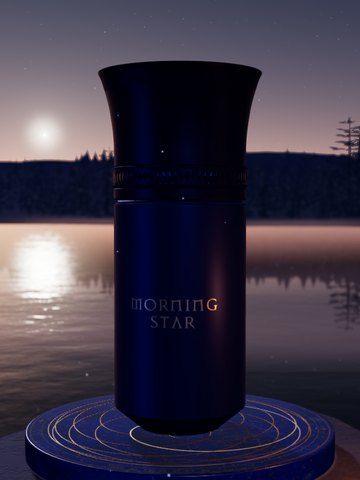
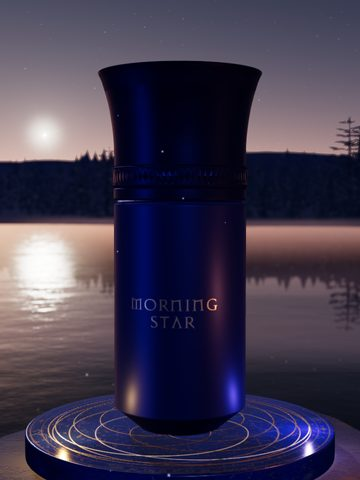
晨曉之星：台座金線的兩道光點變成真的光源，跟著光點在盤面上走、照亮瓶身下半與盤面（鑽到瓶底下時熄掉，兩道光相遇時變亮）；瓶身提亮（環境光條、顏色、漆面反光），縮圖重拍
Claude-Session: https://claude.ai/code/session_01PqrgZkmayFsytv1H3rdgSD

diff --git a/morning-star-3d.html b/morning-star-3d.html
@@ -838,7 +838,10 @@ const rose=(()=>{ const N=7000, a=.7233, Pv=.61519, Y=8; const pts=[]; let maxR=
   m.customProgramCacheKey=()=>'rose';
   const mesh=new THREE.Mesh(g,m); mesh.receiveShadow=true; pedestal.add(mesh); refl(mesh);
   const tip=new THREE.Vector3(P[best][0],.02,P[best][1]);
-  return { U, L, tip, T0:lens[best]/L };
+  // 依弧長參數（0–1，和 aT 一樣）找出金線上的位置：讓真的光源跟著光點走
+  const posAt=(p,v)=>{ const sL=(((p%1)+1)%1)*L; let lo=0, hi=lens.length-1; while(hi-lo>1){ const m=(lo+hi)>>1; if(lens[m]<=sL) lo=m; else hi=m; }
+    const k=(sL-lens[lo])/Math.max(1e-9,lens[hi]-lens[lo]); return v.set(P[lo][0]+(P[hi][0]-P[lo][0])*k, 0, P[lo][1]+(P[hi][1]-P[lo][1])*k); };
+  return { U, L, tip, T0:lens[best]/L, posAt };
 })();
 
 // 青銅香爐架（thymiaterion）：三隻獅爪腳、細長的柱上一節節線腳與一顆圓球，頂上一只淺碗燃著乳香
@@ -868,6 +871,10 @@ const thym=new THREE.Group(); { const tx=5.6, tz=2.9; thym.position.set(tx, terr
 }
 // 火光：碗口一小簇搖曳的火焰（火炬），暖色的點光源照亮瓶身右前方
 const fireLight=new THREE.PointLight(C('#ff9450'), 14, 26, 1.7); fireLight.position.set(0,5.6,0); thym.add(fireLight);
+// 金線裡的兩道光也是真的光源：跟著光點在盤面上走，照亮瓶身下半、盤面與金線（鑽到瓶底下時熄掉）
+const PULSE = { I:[8,5.2], y:.62, foot:1.9 };                                                // 金光打在靛藍上會被吃掉一些，所以給亮一點
+// 衰減放緩一點（1.6），光才爬得上瓶身
+const pulseLights=['#ffbe48','#a596ff'].map(c=>{ const l=new THREE.PointLight(C(c), 0, 12, 1.6); l.layers.enable(1); l.layers.enable(REFL_LAYER); pedestal.add(l); return l; });
 const flames=(()=>{ const m=new THREE.ShaderMaterial({ transparent:true, depthWrite:false, blending:THREE.AdditiveBlending, side:THREE.DoubleSide, fog:false, uniforms:{ uT:clockU },
     vertexShader:`varying vec2 vUv; void main(){ vUv=uv; gl_Position=projectionMatrix*modelViewMatrix*vec4(position,1.); }`,
     fragmentShader:`uniform float uT; varying vec2 vUv;
@@ -910,22 +917,29 @@ const fx=(()=>{
   const SAT_P=95, t0=13;                                                     // 兩道光第一次在正面相遇：開場後約 12 秒
   const tmp=new THREE.Vector3(), flash=new THREE.Sprite(new THREE.SpriteMaterial({ map:canvasTex(64,64,(c,w)=>{ const gr=c.createRadialGradient(w/2,w/2,0,w/2,w/2,w/2); gr.addColorStop(0,'rgba(255,250,235,1)'); gr.addColorStop(.3,'rgba(255,230,190,.35)'); gr.addColorStop(1,'rgba(255,230,190,0)'); c.fillStyle=gr; c.fillRect(0,0,w,w); }), transparent:true, depthWrite:false, blending:THREE.AdditiveBlending, opacity:0 }));
   flash.position.copy(rose.tip); flash.scale.setScalar(1.6); pedestal.add(flash);
-  const update=(t,dt)=>{
-    smoke.forEach(o=>{ const k=(t*.09+o.ph)%1; o.s.position.set(Math.sin(t*.4+o.ph*9)*.35*k + k*k*1.6, 5.3+k*6.5, Math.cos(t*.33+o.ph*7)*.3*k - k*.6); o.s.scale.setScalar(.3+k*1.9); o.s.material.opacity=Math.sin(Math.min(1,k*1.15)*Math.PI)*.085;
-      o.s.material.color.setRGB(.85+.15*(1-k), .82+.05*(1-k), .86-.12*(1-k)); });
-    const fl=.8+.2*Math.sin(t*9.1)*Math.sin(t*5.3+1)+.08*Math.sin(t*23.); fireLight.intensity=14*fl; flames.scale.set(1,.9+.2*fl,1);
-    // 金線裡的兩道光
+  // 金線裡的兩道光
+  const pulses=(t)=>{
     const P=48, tau=(t+t0)/P; const U=rose.U; U.uTA.value=((rose.T0+.5+tau)%1+1)%1; U.uTB.value=((rose.T0+.5-tau)%1+1)%1;
     const dm=Math.abs(((U.uTA.value-U.uTB.value)%1+1.5)%1-.5); const meetFront=Math.abs(((U.uTA.value-rose.T0)%1+1.5)%1-.5)<.25;
     const fk=Math.exp(-Math.pow(dm/.012,2)); U.uFlash.value=meetFront?fk:0; flash.material.opacity=meetFront?fk*.9:0;
     if(world.venus) world.venus.material.uniforms.uPulse.value=meetFront?0:fk;                 // 背面那次相遇（在瓶子底下，昏星變成晨星）：天上的金星亮一下
+    const boost=1+(meetFront?fk*2.2:0);
+    pulseLights.forEach((l,i)=>{ rose.posAt(i?U.uTB.value:U.uTA.value, l.position); const r=Math.hypot(l.position.x,l.position.z);
+      l.position.y=PULSE.y; l.intensity=PULSE.I[i]*sstep(PULSE.foot-.1,PULSE.foot+.5,r)*boost; });
+  };
+  pulses(0);
+  const update=(t,dt)=>{
+    smoke.forEach(o=>{ const k=(t*.09+o.ph)%1; o.s.position.set(Math.sin(t*.4+o.ph*9)*.35*k + k*k*1.6, 5.3+k*6.5, Math.cos(t*.33+o.ph*7)*.3*k - k*.6); o.s.scale.setScalar(.3+k*1.9); o.s.material.opacity=Math.sin(Math.min(1,k*1.15)*Math.PI)*.085;
+      o.s.material.color.setRGB(.85+.15*(1-k), .82+.05*(1-k), .86-.12*(1-k)); });
+    const fl=.8+.2*Math.sin(t*9.1)*Math.sin(t*5.3+1)+.08*Math.sin(t*23.); fireLight.intensity=14*fl; flames.scale.set(1,.9+.2*fl,1);
+    pulses(t);
     // 流星
     if(metT<0){ metNext-=dt; if(metNext<0) spawn(); } else { metT+=dt/.75; met.material.uniforms.uK.value=Math.min(1.25,metT); if(metT>1.25){ metT=-1; met.visible=false; metNext=18+Math.random()*24; } }
     // 衛星：沿著一道大圓從西北往東南走，靠近曙光時漸漸淡出（進入地影）
     { const k=((t+20)%SAT_P)/SAT_P; const az=250-k*120, alt=9+16*Math.sin(k*Math.PI); tmp.copy(dirAzAlt(az,alt)).multiplyScalar(1300); sat.geometry.attributes.position.setXYZ(0,tmp.x,tmp.y,tmp.z); sat.geometry.attributes.position.needsUpdate=true;
       sat.material.uniforms.uA.value=sstep(0,.06,k)*sstep(.82,.62,k); }
   };
-  return { update, spawn, sat, met };
+  return { update, spawn, sat, met, pulses, pulseLights };
 })();
 // ---------- 燈光：日出前沒有直射的陽光。主光是東邊天際的曙光（偏冷的粉紫、低低地從左後方來，影子很柔），
 // 天光是深藍的夜空；右前方香爐架的火光是唯一的暖色，迎面一道很淡的星光讓香材看得清楚 ----------
@@ -1012,10 +1026,10 @@ const embTex = tex(TEX.emblem, false);
   // 讓霧面漆照出官方照那種直直一道的藍紫高光，夜裡也看得出瓶身的形狀
   const bottleEnv=(()=>{ const sc=new THREE.Scene(); sc.add(new THREE.Mesh(new THREE.SphereGeometry(500,32,16), skyMaterial()));
     const panel=(az,alt,w,h,col,k)=>{ const m=new THREE.Mesh(new THREE.PlaneGeometry(w,h), new THREE.MeshBasicMaterial({ color:C(col).multiplyScalar(k), side:THREE.DoubleSide })); m.position.copy(dirAzAlt(az,alt)).multiplyScalar(60); m.lookAt(0,0,0); sc.add(m); };
-    panel(128,10,12,80,'#8c98ff',1.6); panel(252,8,9,70,'#ffb27a',.8); panel(20,6,46,14,'#ff9c70',.9);
+    panel(128,10,12,80,'#8c98ff',2.0); panel(252,8,9,70,'#ffb27a',1.0); panel(20,6,46,14,'#ff9c70',1.05);
     return pmrem.fromScene(sc,0,.1,1000).texture; })();
-  const bodyMat=satin(new THREE.MeshPhysicalMaterial({ color:C('#232b68'), metalness:.55, roughness:.42, clearcoat:.06, clearcoatRoughness:.55, specularIntensity:.5, envMap:bottleEnv, envMapIntensity:1.1 }),'body');
-  const capMat=satin(new THREE.MeshPhysicalMaterial({ color:C('#1e2250'), metalness:.62, roughness:.38, clearcoat:.06, clearcoatRoughness:.5, specularIntensity:.45, envMap:bottleEnv, envMapIntensity:1.1 }),'cap');
+  const bodyMat=satin(new THREE.MeshPhysicalMaterial({ color:C('#29327a'), metalness:.55, roughness:.42, clearcoat:.22, clearcoatRoughness:.5, specularIntensity:.5, envMap:bottleEnv, envMapIntensity:1.3 }),'body');
+  const capMat=satin(new THREE.MeshPhysicalMaterial({ color:C('#23285e'), metalness:.62, roughness:.38, clearcoat:.06, clearcoatRoughness:.5, specularIntensity:.45, envMap:bottleEnv, envMapIntensity:1.3 }),'cap');
   const body=new THREE.Mesh(bodyG,bodyMat), cap=new THREE.Mesh(capG,capMat);
   [body,cap].forEach(m=>{ m.castShadow=true; m.receiveShadow=true; bottle.add(m); });
   refl(bottle);

diff --git a/src/morning-star-3d.src.html b/src/morning-star-3d.src.html
@@ -838,7 +838,10 @@ const rose=(()=>{ const N=7000, a=.7233, Pv=.61519, Y=8; const pts=[]; let maxR=
   m.customProgramCacheKey=()=>'rose';
   const mesh=new THREE.Mesh(g,m); mesh.receiveShadow=true; pedestal.add(mesh); refl(mesh);
   const tip=new THREE.Vector3(P[best][0],.02,P[best][1]);
-  return { U, L, tip, T0:lens[best]/L };
+  // 依弧長參數（0–1，和 aT 一樣）找出金線上的位置：讓真的光源跟著光點走
+  const posAt=(p,v)=>{ const sL=(((p%1)+1)%1)*L; let lo=0, hi=lens.length-1; while(hi-lo>1){ const m=(lo+hi)>>1; if(lens[m]<=sL) lo=m; else hi=m; }
+    const k=(sL-lens[lo])/Math.max(1e-9,lens[hi]-lens[lo]); return v.set(P[lo][0]+(P[hi][0]-P[lo][0])*k, 0, P[lo][1]+(P[hi][1]-P[lo][1])*k); };
+  return { U, L, tip, T0:lens[best]/L, posAt };
 })();
 
 // 青銅香爐架（thymiaterion）：三隻獅爪腳、細長的柱上一節節線腳與一顆圓球，頂上一只淺碗燃著乳香
@@ -868,6 +871,10 @@ const thym=new THREE.Group(); { const tx=5.6, tz=2.9; thym.position.set(tx, terr
 }
 // 火光：碗口一小簇搖曳的火焰（火炬），暖色的點光源照亮瓶身右前方
 const fireLight=new THREE.PointLight(C('#ff9450'), 14, 26, 1.7); fireLight.position.set(0,5.6,0); thym.add(fireLight);
+// 金線裡的兩道光也是真的光源：跟著光點在盤面上走，照亮瓶身下半、盤面與金線（鑽到瓶底下時熄掉）
+const PULSE = { I:[8,5.2], y:.62, foot:1.9 };                                                // 金光打在靛藍上會被吃掉一些，所以給亮一點
+// 衰減放緩一點（1.6），光才爬得上瓶身
+const pulseLights=['#ffbe48','#a596ff'].map(c=>{ const l=new THREE.PointLight(C(c), 0, 12, 1.6); l.layers.enable(1); l.layers.enable(REFL_LAYER); pedestal.add(l); return l; });
 const flames=(()=>{ const m=new THREE.ShaderMaterial({ transparent:true, depthWrite:false, blending:THREE.AdditiveBlending, side:THREE.DoubleSide, fog:false, uniforms:{ uT:clockU },
     vertexShader:`varying vec2 vUv; void main(){ vUv=uv; gl_Position=projectionMatrix*modelViewMatrix*vec4(position,1.); }`,
     fragmentShader:`uniform float uT; varying vec2 vUv;
@@ -910,22 +917,29 @@ const fx=(()=>{
   const SAT_P=95, t0=13;                                                     // 兩道光第一次在正面相遇：開場後約 12 秒
   const tmp=new THREE.Vector3(), flash=new THREE.Sprite(new THREE.SpriteMaterial({ map:canvasTex(64,64,(c,w)=>{ const gr=c.createRadialGradient(w/2,w/2,0,w/2,w/2,w/2); gr.addColorStop(0,'rgba(255,250,235,1)'); gr.addColorStop(.3,'rgba(255,230,190,.35)'); gr.addColorStop(1,'rgba(255,230,190,0)'); c.fillStyle=gr; c.fillRect(0,0,w,w); }), transparent:true, depthWrite:false, blending:THREE.AdditiveBlending, opacity:0 }));
   flash.position.copy(rose.tip); flash.scale.setScalar(1.6); pedestal.add(flash);
-  const update=(t,dt)=>{
-    smoke.forEach(o=>{ const k=(t*.09+o.ph)%1; o.s.position.set(Math.sin(t*.4+o.ph*9)*.35*k + k*k*1.6, 5.3+k*6.5, Math.cos(t*.33+o.ph*7)*.3*k - k*.6); o.s.scale.setScalar(.3+k*1.9); o.s.material.opacity=Math.sin(Math.min(1,k*1.15)*Math.PI)*.085;
-      o.s.material.color.setRGB(.85+.15*(1-k), .82+.05*(1-k), .86-.12*(1-k)); });
-    const fl=.8+.2*Math.sin(t*9.1)*Math.sin(t*5.3+1)+.08*Math.sin(t*23.); fireLight.intensity=14*fl; flames.scale.set(1,.9+.2*fl,1);
-    // 金線裡的兩道光
+  // 金線裡的兩道光
+  const pulses=(t)=>{
     const P=48, tau=(t+t0)/P; const U=rose.U; U.uTA.value=((rose.T0+.5+tau)%1+1)%1; U.uTB.value=((rose.T0+.5-tau)%1+1)%1;
     const dm=Math.abs(((U.uTA.value-U.uTB.value)%1+1.5)%1-.5); const meetFront=Math.abs(((U.uTA.value-rose.T0)%1+1.5)%1-.5)<.25;
     const fk=Math.exp(-Math.pow(dm/.012,2)); U.uFlash.value=meetFront?fk:0; flash.material.opacity=meetFront?fk*.9:0;
     if(world.venus) world.venus.material.uniforms.uPulse.value=meetFront?0:fk;                 // 背面那次相遇（在瓶子底下，昏星變成晨星）：天上的金星亮一下
+    const boost=1+(meetFront?fk*2.2:0);
+    pulseLights.forEach((l,i)=>{ rose.posAt(i?U.uTB.value:U.uTA.value, l.position); const r=Math.hypot(l.position.x,l.position.z);
+      l.position.y=PULSE.y; l.intensity=PULSE.I[i]*sstep(PULSE.foot-.1,PULSE.foot+.5,r)*boost; });
+  };
+  pulses(0);
+  const update=(t,dt)=>{
+    smoke.forEach(o=>{ const k=(t*.09+o.ph)%1; o.s.position.set(Math.sin(t*.4+o.ph*9)*.35*k + k*k*1.6, 5.3+k*6.5, Math.cos(t*.33+o.ph*7)*.3*k - k*.6); o.s.scale.setScalar(.3+k*1.9); o.s.material.opacity=Math.sin(Math.min(1,k*1.15)*Math.PI)*.085;
+      o.s.material.color.setRGB(.85+.15*(1-k), .82+.05*(1-k), .86-.12*(1-k)); });
+    const fl=.8+.2*Math.sin(t*9.1)*Math.sin(t*5.3+1)+.08*Math.sin(t*23.); fireLight.intensity=14*fl; flames.scale.set(1,.9+.2*fl,1);
+    pulses(t);
     // 流星
     if(metT<0){ metNext-=dt; if(metNext<0) spawn(); } else { metT+=dt/.75; met.material.uniforms.uK.value=Math.min(1.25,metT); if(metT>1.25){ metT=-1; met.visible=false; metNext=18+Math.random()*24; } }
     // 衛星：沿著一道大圓從西北往東南走，靠近曙光時漸漸淡出（進入地影）
     { const k=((t+20)%SAT_P)/SAT_P; const az=250-k*120, alt=9+16*Math.sin(k*Math.PI); tmp.copy(dirAzAlt(az,alt)).multiplyScalar(1300); sat.geometry.attributes.position.setXYZ(0,tmp.x,tmp.y,tmp.z); sat.geometry.attributes.position.needsUpdate=true;
       sat.material.uniforms.uA.value=sstep(0,.06,k)*sstep(.82,.62,k); }
   };
-  return { update, spawn, sat, met };
+  return { update, spawn, sat, met, pulses, pulseLights };
 })();
 // ---------- 燈光：日出前沒有直射的陽光。主光是東邊天際的曙光（偏冷的粉紫、低低地從左後方來，影子很柔），
 // 天光是深藍的夜空；右前方香爐架的火光是唯一的暖色，迎面一道很淡的星光讓香材看得清楚 ----------
@@ -1012,10 +1026,10 @@ const embTex = tex(TEX.emblem, false);
   // 讓霧面漆照出官方照那種直直一道的藍紫高光，夜裡也看得出瓶身的形狀
   const bottleEnv=(()=>{ const sc=new THREE.Scene(); sc.add(new THREE.Mesh(new THREE.SphereGeometry(500,32,16), skyMaterial()));
     const panel=(az,alt,w,h,col,k)=>{ const m=new THREE.Mesh(new THREE.PlaneGeometry(w,h), new THREE.MeshBasicMaterial({ color:C(col).multiplyScalar(k), side:THREE.DoubleSide })); m.position.copy(dirAzAlt(az,alt)).multiplyScalar(60); m.lookAt(0,0,0); sc.add(m); };
-    panel(128,10,12,80,'#8c98ff',1.6); panel(252,8,9,70,'#ffb27a',.8); panel(20,6,46,14,'#ff9c70',.9);
+    panel(128,10,12,80,'#8c98ff',2.0); panel(252,8,9,70,'#ffb27a',1.0); panel(20,6,46,14,'#ff9c70',1.05);
     return pmrem.fromScene(sc,0,.1,1000).texture; })();
-  const bodyMat=satin(new THREE.MeshPhysicalMaterial({ color:C('#232b68'), metalness:.55, roughness:.42, clearcoat:.06, clearcoatRoughness:.55, specularIntensity:.5, envMap:bottleEnv, envMapIntensity:1.1 }),'body');
-  const capMat=satin(new THREE.MeshPhysicalMaterial({ color:C('#1e2250'), metalness:.62, roughness:.38, clearcoat:.06, clearcoatRoughness:.5, specularIntensity:.45, envMap:bottleEnv, envMapIntensity:1.1 }),'cap');
+  const bodyMat=satin(new THREE.MeshPhysicalMaterial({ color:C('#29327a'), metalness:.55, roughness:.42, clearcoat:.22, clearcoatRoughness:.5, specularIntensity:.5, envMap:bottleEnv, envMapIntensity:1.3 }),'body');
+  const capMat=satin(new THREE.MeshPhysicalMaterial({ color:C('#23285e'), metalness:.62, roughness:.38, clearcoat:.06, clearcoatRoughness:.5, specularIntensity:.45, envMap:bottleEnv, envMapIntensity:1.3 }),'cap');
   const body=new THREE.Mesh(bodyG,bodyMat), cap=new THREE.Mesh(capG,capMat);
   [body,cap].forEach(m=>{ m.castShadow=true; m.receiveShadow=true; bottle.add(m); });
   refl(bottle);

diff --git a/CLAUDE.md b/CLAUDE.md
@@ -49,6 +49,7 @@
 - 湖面倒影：鏡像相機＋斜切近平面（同 three.js Reflector），只畫第 2 層；相機繞行的那一圈（離瓶子約 24～62）不要放大石或樹，會擋在鏡頭前。
 - 景深不處理天空（深度 = 1）：星點會被糊掉。
 - 夜景裡的模型整個偏藍：淺色木頭、乳香這類暖色的材質要用暖色 color 乘上去，不然看起來像灰色的石頭。
+- 會動的發光物要真的照亮周圍（Yoyo 對晨曉之星台座金線光點的要求）：晨曉之星的兩道光點各掛一盞 PointLight（`PULSE`、`pulseLights`，跟著 `rose.posAt(弧長參數)` 在盤面上方 0.62 走，衰減 1.6 讓光爬得上瓶身；走到瓶底下就熄掉，兩道光相遇時變亮），燈要開第 1 層與 `REFL_LAYER`，不投影。金光打在靛藍的半金屬漆上會變成粉紫色：燈色偏黃（#ffbe48）、瓶身 clearcoat 0.22（白色的漆面反光），金光才看得出是金色。
 
 ### 檢查
 - 自己寫的幾何（BufferGeometry 手排索引）一定要用數值驗證繞序與法向朝外（三角形外法向 · (中心→三角形) > 0、頂點法向朝外）。無極烏龍的瓶身曾經整個繞反：GPU 只畫出遠側那一面，光線從那裡往外走，根本沒穿過內腔，看起來就像一塊實心玻璃、背面浮雕跑到正面。
